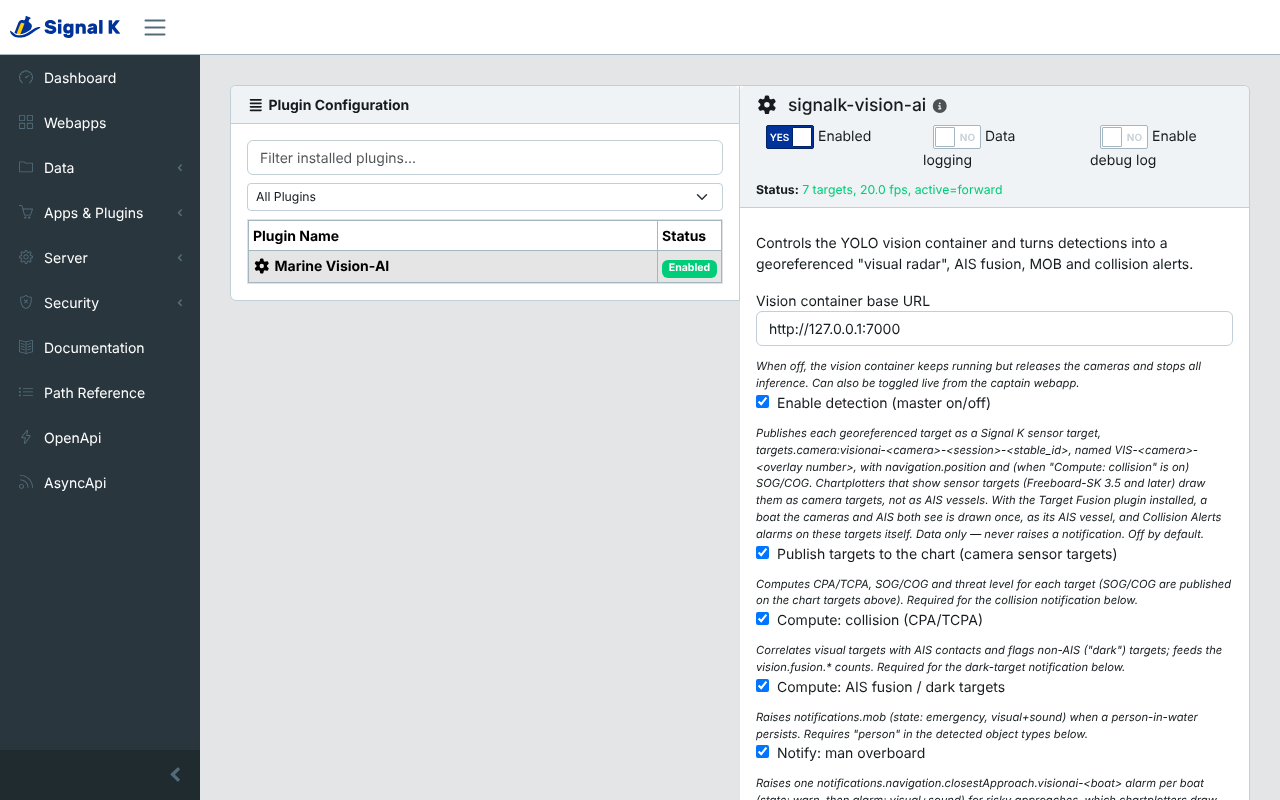
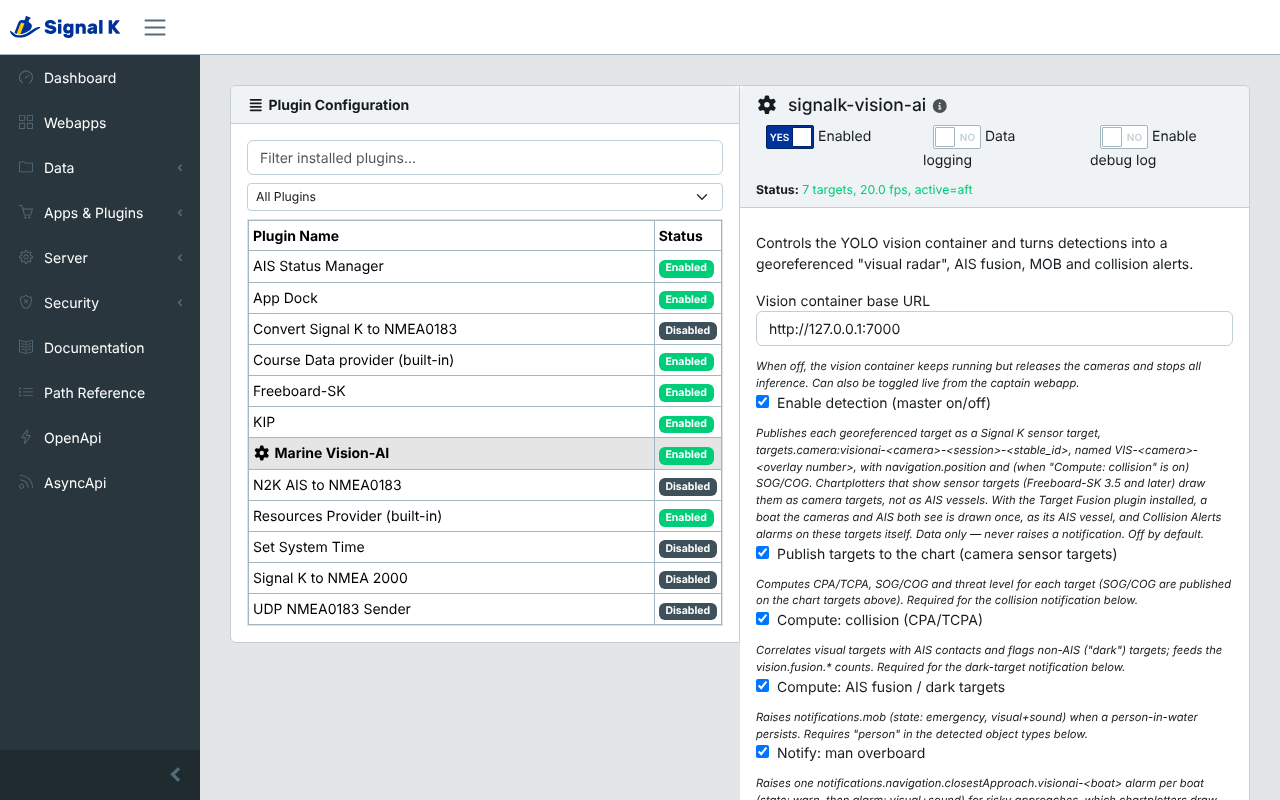
Mock stack: run only the vision service, for your own Signal K server
docker-compose.mock.yml layered a signalk-server (pinned to 2.28.0) onto
the base, so the dev stack ran its own server instead of the one the
plugin is actually used with. It is now self-contained like the other
compose files: only the mock vision service (built from the checkout,
synthetic cameras, samples mount, localhost:7000), for the Signal K server
you already run, with the plugin installed or linked into it. The base
docker-compose.yml, README, AGENTS.md, dev-quickstart and the CI compose
check follow (one -f each).

dev-quickstart also says why the server's bundled sample recordings give
targets no bearings: they replay old timestamps, which the own-ship
freshness guard rightly treats as missing.

The App Store settings screenshot is retaken on Signal K Server 2.37.0
(the current release) with the container connected, so it shows a clean
status rather than an outage.

Changed region(s): [[0.1562, 0.2812, 0.5938, 0.8125], [0.75, 0.2188, 0.7812, 0.25]]

diff --git a/docs/dev-quickstart.md b/docs/dev-quickstart.md
@@ -1,28 +1,30 @@
-# Dev quickstart — full stack on a laptop
+# Dev quickstart: mock container + your Signal K server
 
-No GPU or cameras required. You'll run the vision container in mock mode, a
-SignalK server, and the plugin, then watch detections flow end-to-end.
+No GPU or cameras required. You run the vision container in mock mode
+(synthetic forward and aft cameras), install the plugin into the Signal K
+server you already use for development, and watch detections flow end to end.
+Nothing here starts a Signal K server of its own.
 
-## Option A — Docker (simplest)
+Use a test server: the aft camera's made-up person in the water raises a real
+`notifications.mob` alarm.
+
+## 1. Start the mock vision container
+
+**Docker** (simplest):
 
 ```bash
-cd signalk-plugin && npm install && npm run build && cd ..
-docker compose -f docker-compose.yml -f docker-compose.mock.yml up
+docker compose -f docker-compose.mock.yml up -d --build
 ```
 
-- Vision container: http://localhost:7000/stream/forward.mjpg
-- SignalK server: http://localhost:3000 (enable the **Marine Vision-AI** plugin
-  under *Server → Plugin Config*, set `containerUrl` to `http://vision-service:7000`)
-- Captain view: http://localhost:3000/signalk-vision-ai/
+Or pull the published mock image instead of building it:
+`docker compose -f deploy/docker-compose.mock.yml up -d`.
 
-## Option B — local processes
-
-### 1. Vision container
+**Or as a local process:**
 
 ```bash
 cd vision-service
 python3 -m venv .venv && . .venv/bin/activate
-pip install fastapi "uvicorn[standard]" pydantic numpy PyYAML opencv-python-headless websockets
+pip install -c constraints.txt -r requirements.txt
 VISION_MODE=mock python -m uvicorn app.main:app --port 7000
 ```
 
@@ -34,33 +36,56 @@ curl "localhost:7000/events/recent?n=1" | jq '.[0].targets[].label'
 # open localhost:7000/stream/aft.mjpg  → note the red "MOB!" box (person in water)
 ```
 
-### 2. SignalK server + plugin
+## 2. Install the plugin into your Signal K server
+
+Build it and link it into the server's `node_modules`, then restart the
+server:
 
 ```bash
-npm install -g signalk-server        # or use the Docker image
-cd signalk-plugin && npm install && npm run build
-# Make the plugin discoverable:
+cd signalk-plugin && npm ci && npm run build
 mkdir -p ~/.signalk/node_modules
 ln -s "$PWD" ~/.signalk/node_modules/signalk-vision-ai
-signalk-server
 ```
 
-In the SignalK admin UI (http://localhost:3000):
-1. *Server → Plugin Config → Marine Vision-AI* → enable, set
-   `containerUrl = http://localhost:7000`, save.
-2. *Data Browser* → you should see `vision.system.inferenceFps` and
+(Or install **Marine Vision-AI** from the App Store to try the published
+version.)
+
+If your Signal K server runs in Docker, the link must point at a path inside
+its container, and `localhost:7000` there is the Signal K container itself:
+give it host networking, or set the plugin's **Vision container base URL** to
+an address that reaches the vision container.
+
+## 3. Watch it work
+
+In the Signal K admin:
+
+1. *Server → Plugin Config → Marine Vision-AI*: enable it. The default
+   **Vision container base URL**, `http://localhost:7000`, is right for a
+   container on the same computer. Save.
+2. *Data → Data Browser*: `vision.system.inferenceFps` and
    `vision.fusion.darkTargetCount` populate. Turn on **Publish targets to
    the chart** to also see `targets.camera:visionai-*` camera targets.
-3. The aft camera's person-in-water raises `notifications.mob` (emergency) —
-   visible in the notifications panel.
-4. Open the **Vision-AI** webapp from the SignalK menu for the annotated stream
-   + target list.
+3. The aft camera's person in the water raises `notifications.mob`
+   (emergency).
+4. Open the **Vision-AI** webapp from the Signal K menu for the annotated
+   video and the target list.
 
-### Seeing AIS fusion
+Stop the container (`docker compose -f docker-compose.mock.yml stop`) to see
+what a user without one sees: a banner at once, and after 30 s the
+container setup guide; it closes by itself when you start the container again.
 
-SignalK's demo data / any AIS source populates `vessels.*`. A visual target that
-lines up (bearing + range) with an AIS vessel shows `aisCorrelated: true`;
-in-range vessels with no AIS match raise dark-target alerts.
+### Own ship and AIS
+
+Targets get a true bearing and a position only from a current own-ship
+position and true heading. The plugin treats data older than **Own-ship nav
+max age** (5 s) as missing, so the server's bundled sample recordings
+(`--sample-nmea0183-data`, `--sample-n2k-data`), which replay timestamps from
+the past, show targets without bearings. Feed live navigation data, or a
+simulator that stamps the current time.
+
+Any live AIS source populates `vessels.*`. A visual target that lines up in
+bearing and range with an AIS vessel shows `aisCorrelated: true`; in-range
+vessels with no AIS match raise dark-target alerts.
 
 ## Running the tests
 

diff --git a/README.md b/README.md
@@ -164,7 +164,7 @@ aren't portable), then run.
 
 | Mode | Where | Command |
 |------|-------|---------|
-| **`mock`** | any laptop, no GPU/cameras | `docker compose up` |
+| **`mock`** | any laptop, no GPU/cameras | `docker compose -f docker-compose.mock.yml up -d --build` |
 | **`deepstream`** | Jetson Orin Nano Super (JetPack 6), full-GPU pipeline (production) | `docker compose -f docker-compose.deepstream.yml up -d --build` |
 | **`deepstream`** | Jetson Xavier NX (JetPack 5), same pipeline | `docker compose -f docker-compose.deepstream.xavier.yml up -d --build` |
 | **`jetson`** | Jetson, TensorRT (alternative) | build the engine once (below), then `docker compose -f docker-compose.jetson.yml up -d` |
@@ -178,14 +178,17 @@ export VISION_CAMERA_AFT_URL="rtsp://user:pass@192.168.1.11:554/stream"
 
 ### `mock` — laptop / dev (no GPU, no cameras)
 
-`docker compose up` runs the vision service alone on synthetic frames. For the
-full stack (vision service **+** a SignalK server with demo data + the plugin),
-layer the dev override — this is the only mode that needs two `-f` files:
+Runs the vision service on synthetic frames, for the Signal K server you
+already run: install the plugin there and leave its **Vision container base
+URL** at `http://localhost:7000`.
 
 ```bash
-docker compose -f docker-compose.yml -f docker-compose.mock.yml up
-# SignalK:  http://localhost:3000     Captain view: http://localhost:3000/signalk-vision-ai/
+docker compose -f docker-compose.mock.yml up -d --build
+# Captain view: http://<your-signalk>:3000/signalk-vision-ai/
 ```
+
+The aft camera's made-up person in the water raises a real man-overboard
+alarm, so use a test server.
 
 ### `deepstream` — fully GPU-resident NVIDIA DeepStream (production backend)
 

diff --git a/AGENTS.md b/AGENTS.md
@@ -259,7 +259,8 @@ Beyond unit tests:
   cd vision-service && VISION_MODE=mock python -m uvicorn app.main:app --port 7000
   # forward.mjpg / aft.mjpg (aft includes a person-in-water for MOB)
   ```
-  or the full stack via `docker compose -f docker-compose.yml -f docker-compose.mock.yml up`.
+  or in Docker via `docker compose -f docker-compose.mock.yml up -d --build`, with the
+  plugin linked into a local Signal K server.
 - **Add/extend tests** so the new behaviour is locked in. Pure logic
   (geometry, fusion, CPA, enrich, publisher, notifications) has no excuse to be
   untested.
@@ -364,8 +365,8 @@ state it, and proceed. Don't over-ask.
 # Mock dev (no GPU/cameras)
 cd vision-service && VISION_MODE=mock python -m uvicorn app.main:app --port 7000
 
-# Full mock stack
-docker compose -f docker-compose.yml -f docker-compose.mock.yml up
+# Mock container in Docker (for a local Signal K server running the plugin)
+docker compose -f docker-compose.mock.yml up -d --build
 
 # Tests
 cd vision-service && pytest
